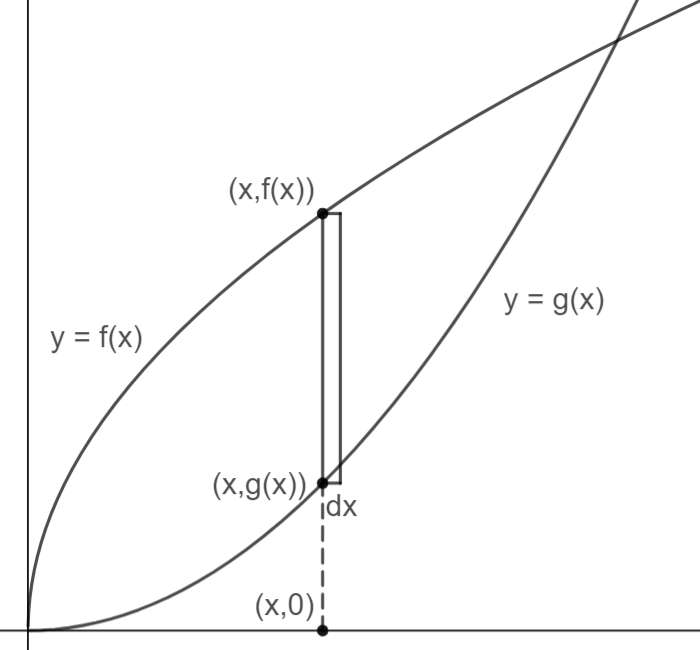
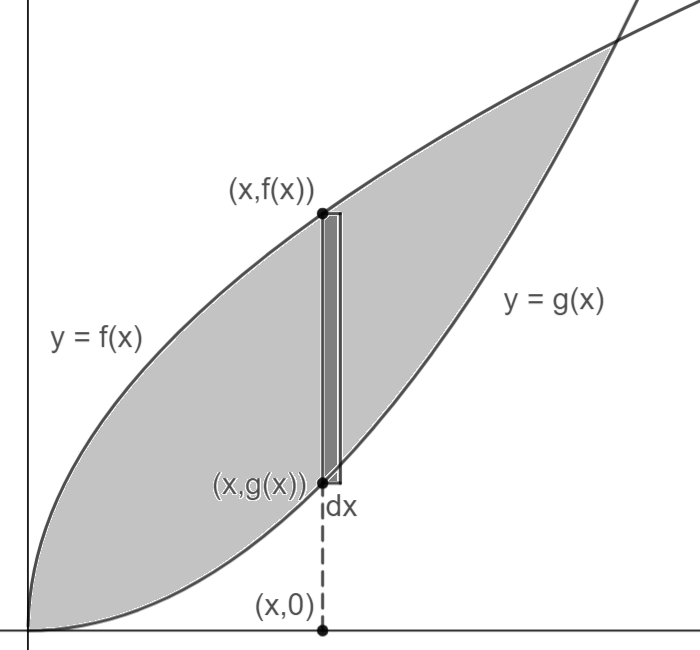
Add files via upload

Changed region(s): [[0.03, 0.0615, 0.87, 0.9846]]

diff --git a/math180_notes_sec6_1_2019_summer.tex b/math180_notes_sec6_1_2019_summer.tex
@@ -1,50 +1,97 @@
-\documentclass[12pt,letterpaper]{article}
-
-%\pagenumbering{gobble} % arabic, roman, Roman, alph, Alph
-\pagenumbering{arabic} % arabic, roman, Roman, alph, Alph
-%\setcounter{page}{0} % sets the initial page
-
-\oddsidemargin = -0.25 in
-\evensidemargin = -0.25 in
-\topmargin = -0.5 in
-\headheight = 0 in
-%\headsep = 0.5 in
-%\topskip = 0 in
-\textheight = 9 in
-\textwidth = 6.75 in
-\footskip = 0.5 in
-
-\usepackage{notes}
+\documentclass[12pt]{article}
+\usepackage[utf8]{inputenc}
+\usepackage[letterpaper, portrait, margin=1in]{geometry}
+\usepackage{amssymb}
+\usepackage{amsmath}
 \usepackage{graphicx}
 \usepackage{tcolorbox}
 
-%\voffset = -0.5 in
-%\hoffset = -0.5 in
+\newcommand{\example}[1]{\noindent\textbf{Example #1\quad}}
+\newcommand{\exercise}[1]{\noindent\textbf{Exercise #1\quad}}
+\newcommand{\problem}[1]{\noindent\textbf{Problem #1\quad}}
 
-\parskip 10 pt
+\pagenumbering{arabic} % arabic, roman, Roman, alph, Alph, gobble
+%\setcounter{page}{0} % sets the initial page
+
+\setlength{\parindent}{0pt}
+\setlength{\parskip}{10pt}
+\setlength{\baselineskip}{15pt}
+\linespread{1.2}
 
 \font\sf = cmss10
 
-\setlength\parindent{0pt}
-
-
+\usepackage{fancyhdr}
+\pagestyle{fancy}
+\fancyhf{}
+\lhead{MATH 180 Notes}
+\rhead{Section 6.1: Areas Between Curves}
+\rfoot{Page \thepage}
+%\thispagestyle{empty}
 
 
 \begin{document}
 
-\thispagestyle{empty}
-
-\baselineskip = 15 pt % between lines
-
-% sanscrif \tt
-
-MATH 180 NOTES \hfill Section 6.1: Areas Between Curves
-
-\hrulefill
 
 Goal: Find the area between two curves of $y = f(x)$ and $y = g(x)$.
 
-\includegraphics[scale=0.7]{math180_sec6_1_img1r.png}
+\includegraphics[scale=0.7]{math180_sec6_1_img1.png}
+
+$$ \boxed{\quad A = \lim_{n \to \infty} \sum_{k=1}^n (f(x_k^*) - g(x_i^*))\Delta x \quad} $$
+
+\begin{tcolorbox}
+The area $A$ of the region bounded by the curves $y = f(x)$, $y = g(x)$, and the lines
+$x = a$, $x = b$, where $f$ and $g$ are continuous and $f(x) \ge g(x)$ for all $x$ in $[a,b]$, is
+$$ A = \int_a^b (f(x) - g(x)) \, dx $$
+\end{tcolorbox}
+
+\example{1} Find the area of the region bounded above by $y = \sqrt{x}$ and lower boundary curve is 
+$y = \ln(x)$, and bounded on the sides by $x = 2$ and $x = 8$.
+
+
+\begin{tabular}{ll}
+\begin{tabular}{l}
+\includegraphics[scale=0.6]{math180_sec6_1_img2.png}
+\end{tabular} & \begin{tabular}{l}
+Note that $\sqrt{x} \ge \ln(x)$\\
+for all $x$ in $[2,8]$. \\
+\\
+Upper function: \\
+$f(x) = \sqrt{x}$ \\
+Lower function: \\
+$g(x) = \ln(x)$
+\end{tabular}
+\end{tabular}
+\begin{eqnarray*}
+A &=& \int_2^8 (\sqrt{x} - \ln(x)) \, dx \\
+&=& \left(\frac{2}{3}x^{3/2} - (x\ln(x) - x)\right)\Bigg|_2^8 \\
+&=& \frac{2}{3}(8)^{3/2} - (8\ln(8) - 8) - \left(\frac{2}{3}(2)^{3/2} - (2\ln(2) - 2)\right) \\
+&=& \frac{2}{3}(8)^{3/2} - 8\ln(2^3) + 8 - \frac{2}{3}(2)^{3/2} + 2\ln(2) - 2 \\
+&=& \frac{2}{3}(16\sqrt{2}) - 24\ln(2) + 6 - \frac{2}{3}(2\sqrt{2}) + 2\ln(2) \\
+\end{eqnarray*}
+
+
+
+\begin{tcolorbox}
+The area between the curves $y = f(x)$ and $y = g(x)$ and between $x = a$ and $x = b$ is
+$$ A = \int_a^b |f(x) - g(x)| \, dx $$
+\end{tcolorbox}
+
+
+
+
+
+
+
+
+
+
+
+
+
+
+
+
+
 
 
 
